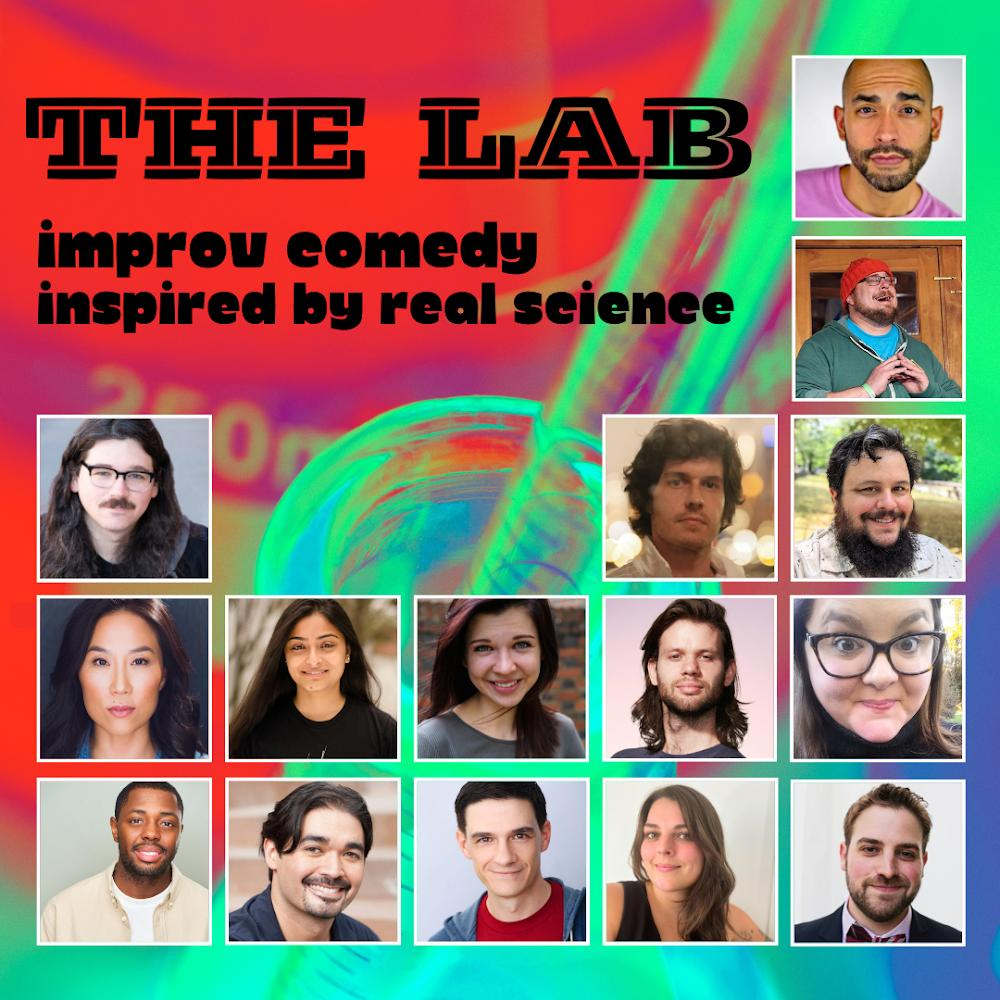
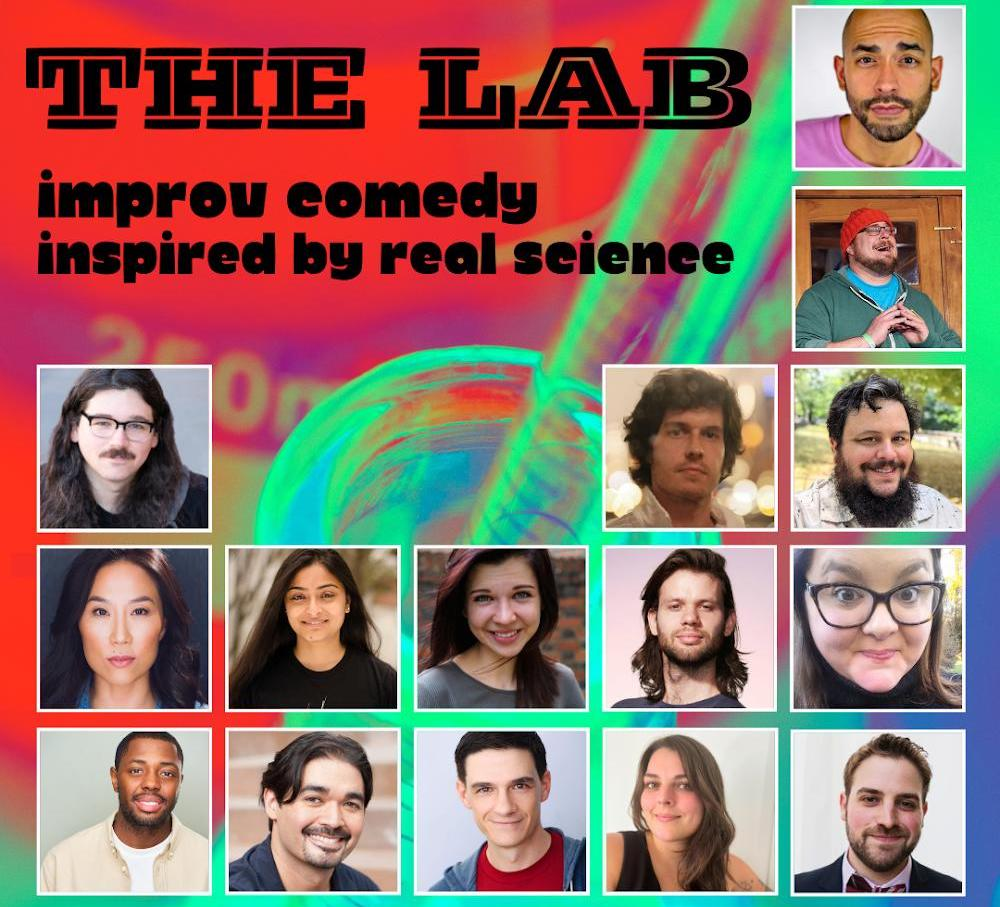
edited index

diff --git a/index.html b/index.html
@@ -37,11 +37,11 @@
 
 
 						<!-- Panel (Spotlight) -->
-							<section class="panel spotlight large left" id = "first">
+							<section class="panel spotlight small left" id = "first">
 								<div class="content span-5">
 								</div>
 								<div class="image filtered tinted" data-position="top right">
-									<img src="images/theLabLandscape.png" alt="" />
+									<img src="images/theLabPoster.jpg" alt="" />
 								</div>
 							</section>
 
@@ -85,26 +85,60 @@
 							</section>
 
 							<!-- Panel -->
-								<section class="panel color4-alt">
-									<div class="intro color4">
-										<h2 class="major">Our History</h2>
-										<p>Our project was initially funded by a Seed Grant from Columbia University's Public Engagement Program.
-											We now operate from <a href="https://magnettheater.com" target="_blank">Magnet Theater</a>
-											(New York City), our creative home base.</p>
+							<section class="panel color2-alt">
+
+								<div class="inner columns divided">
+									<div class="span-1-5">
+										<h2 class="major">The Cast</h2>
+										<ul class="contact-icons color5">
+											<li>Rajyashree Sen (co-producer)</li>
+											<li>Sarah Marksteiner (co-producer)</li>
+											<li> Charlie Nicholson (coach)</li>
+											<li>Billy Soco</li>
+											<li>Michael Hochman</li>
+											<li>Ro Rovito</li>
+											<li>Patrick Hogan </li>
+										</ul>
 									</div>
-									<div class="inner columns divided">
-										<div class="span-1-5">
-											<h2 class="major">Contact Us</h2>
-											<ul class="contact-icons color1">
-												<li><a href="mailto:rs3966@columbia.edu">rs3966@columbia.edu</a></li>
-												<li><a href="mailto:sarah.marksteiner@gmail.com">sarah.marksteiner@gmail.com</a></li>
-											</ul>
-											<br>
-											<br>
-											<br>
-										</div>
+									<div class="span-1-5">
+										<ul class="contact-icons color1">
+											<li>Chris Bouknight</li>
+											<li>Ivy Hong</li>
+											<li>Davonte Smith</li>
+											<li>Howard Finkelstein</li>
+											<li>Sarah Poirier</li>
+											<li>Colin Fisher</li>
+											<li>Justin D Torres</li>
+											<li>Donna Steele</li>
+										</ul>
 									</div>
-								</section>
+								</div>
+							</section>
+
+							<section class="panel color4-alt">
+								<div class="intro color1">
+									<h2 class="major">Our History</h2>
+									<p>Our project was initially funded by a Seed Grant from Columbia University's Public Engagement Program.
+										We now operate from <a href="https://magnettheater.com" target="_blank">Magnet Theater</a>
+										(New York City), our creative home base.</p>
+								</div>
+							</section>
+
+
+							<section class="panel color4-alt">
+								<div class="inner columns divided">
+									<div class="span-1-5">
+										<h2 class="major">Contact Us</h2>
+										<ul class="contact-icons color1">
+											<li><a href="mailto:rs3966@columbia.edu">rs3966@columbia.edu</a></li>
+											<li><a href="mailto:sarah.marksteiner@gmail.com">sarah.marksteiner@gmail.com</a></li>
+										</ul>
+										<br>
+										<br>
+										<br>
+									</div>
+								</div>
+							</section>
 
 						<!-- Copyright -->
 							<div class="copyright">&copy; The Lab. Design: <a href="https://html5up.net">HTML5 UP</a>.</div>
